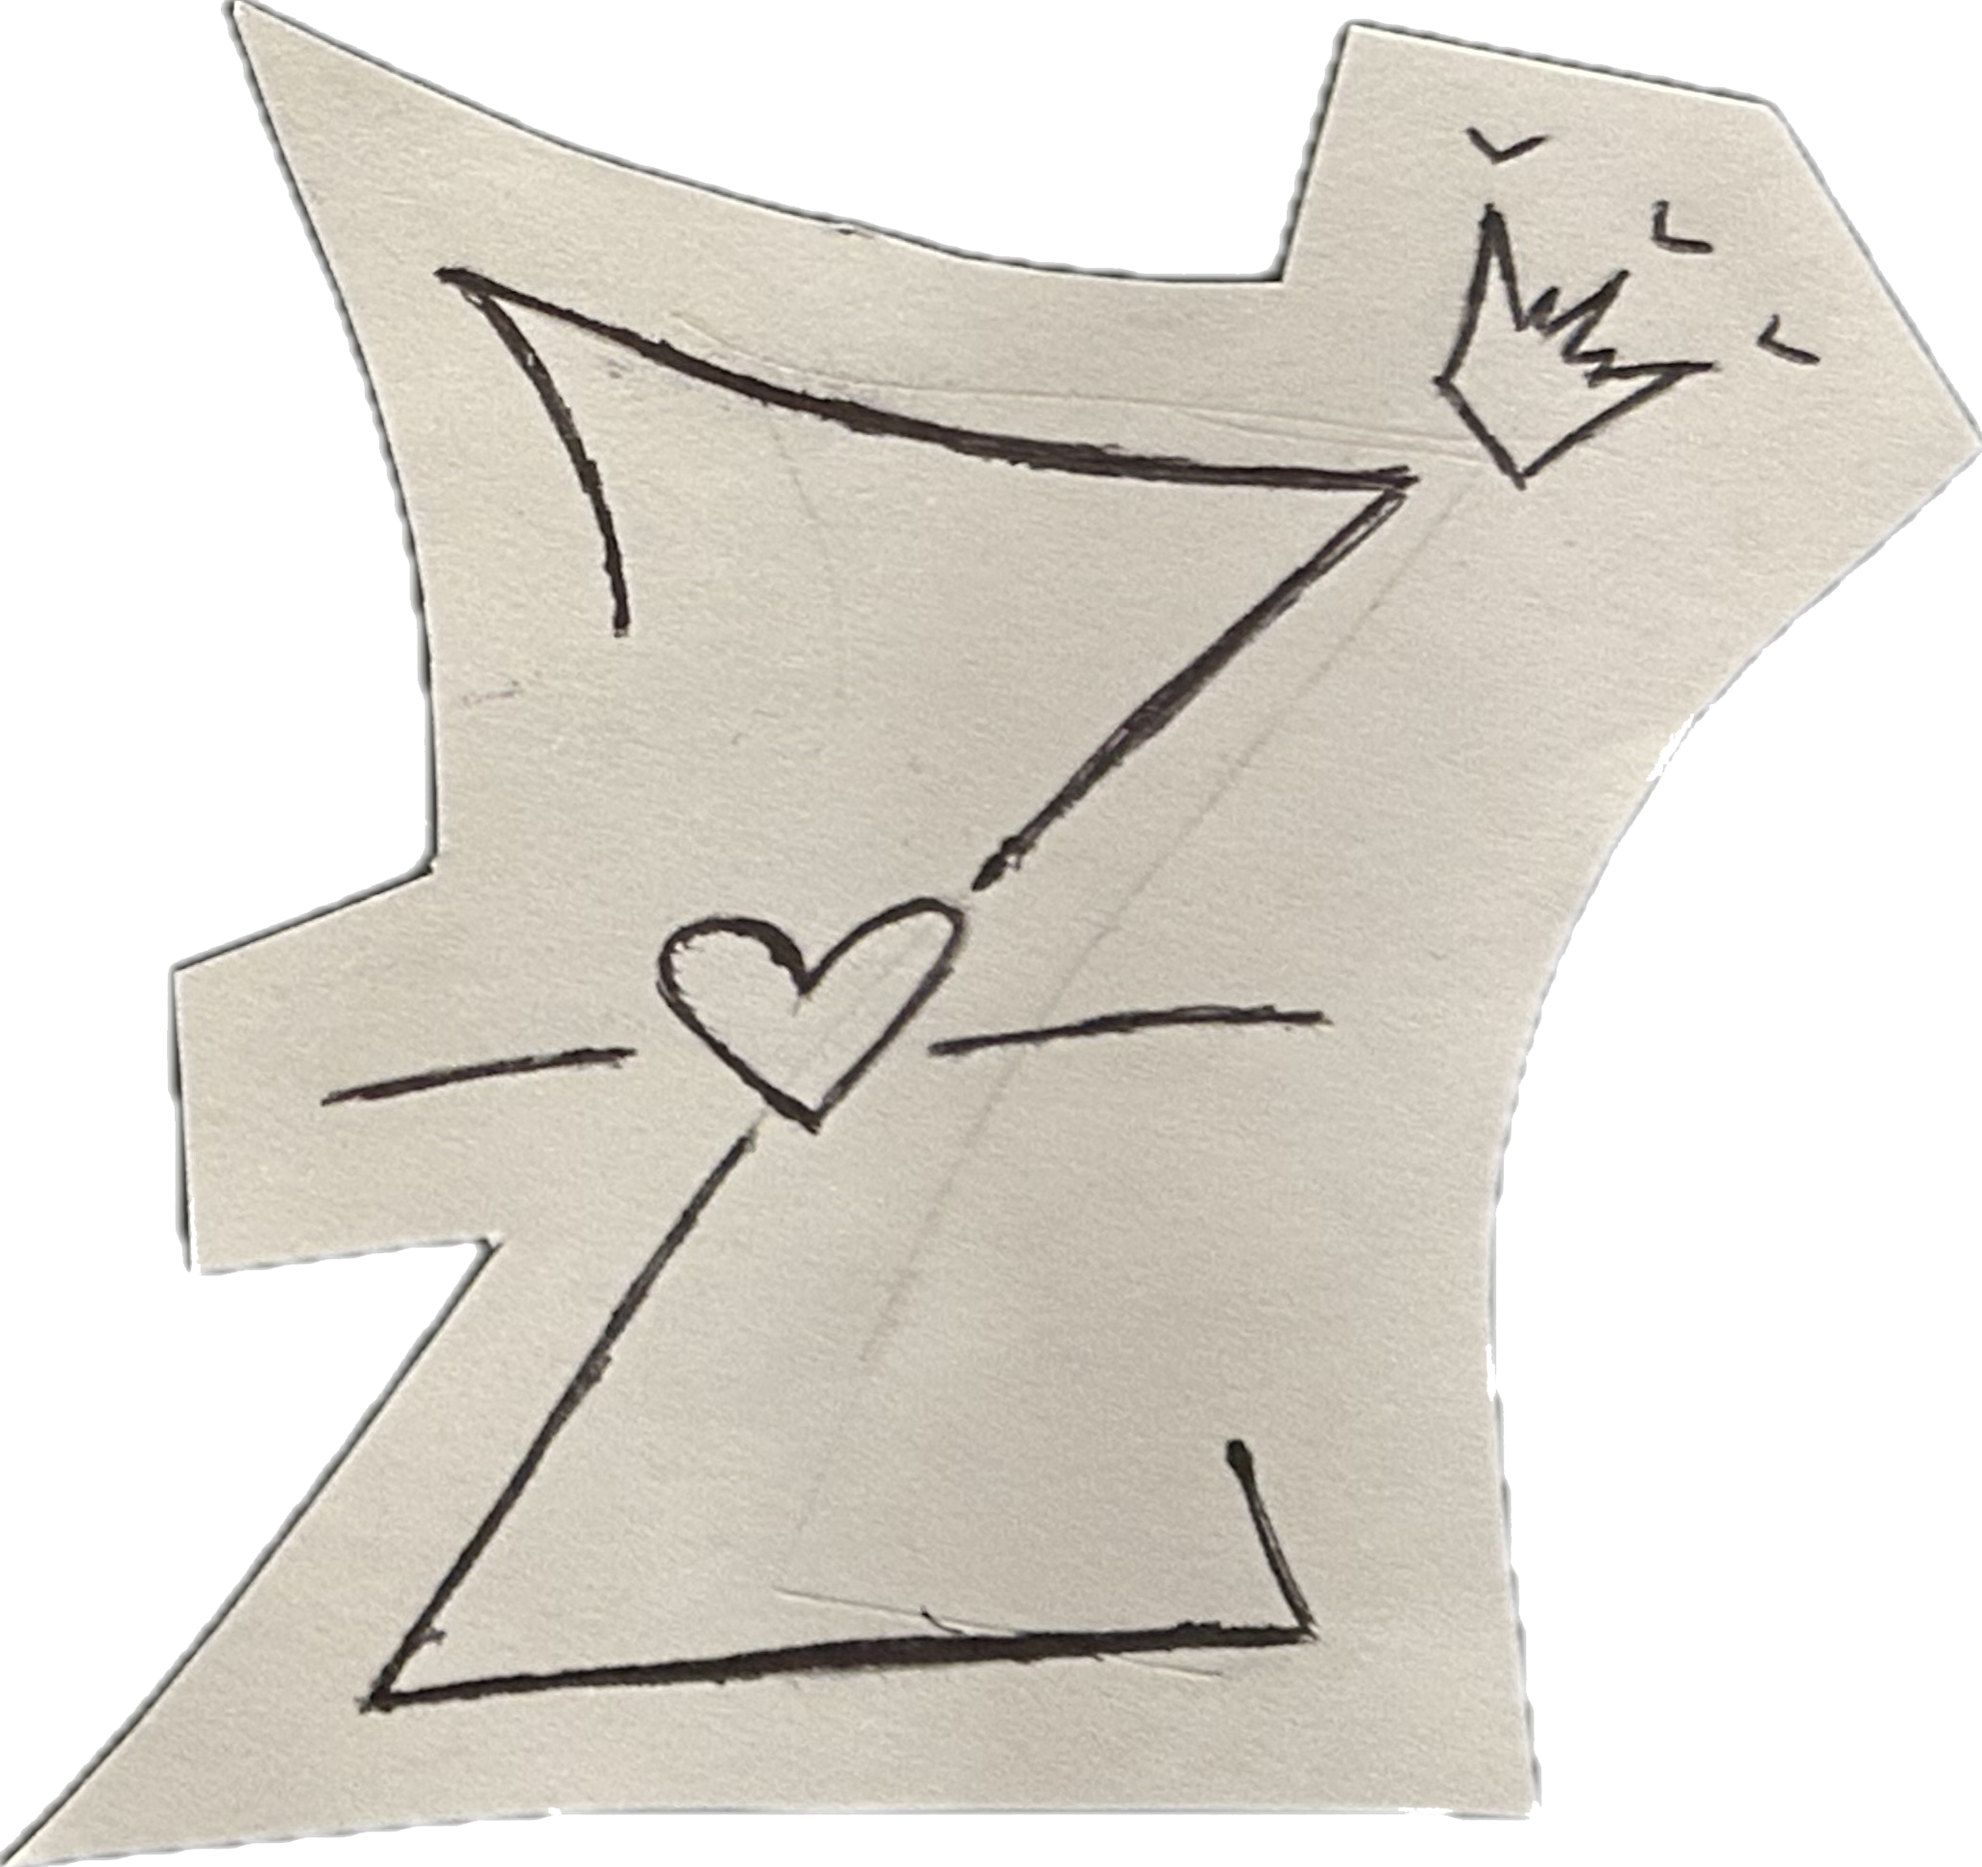
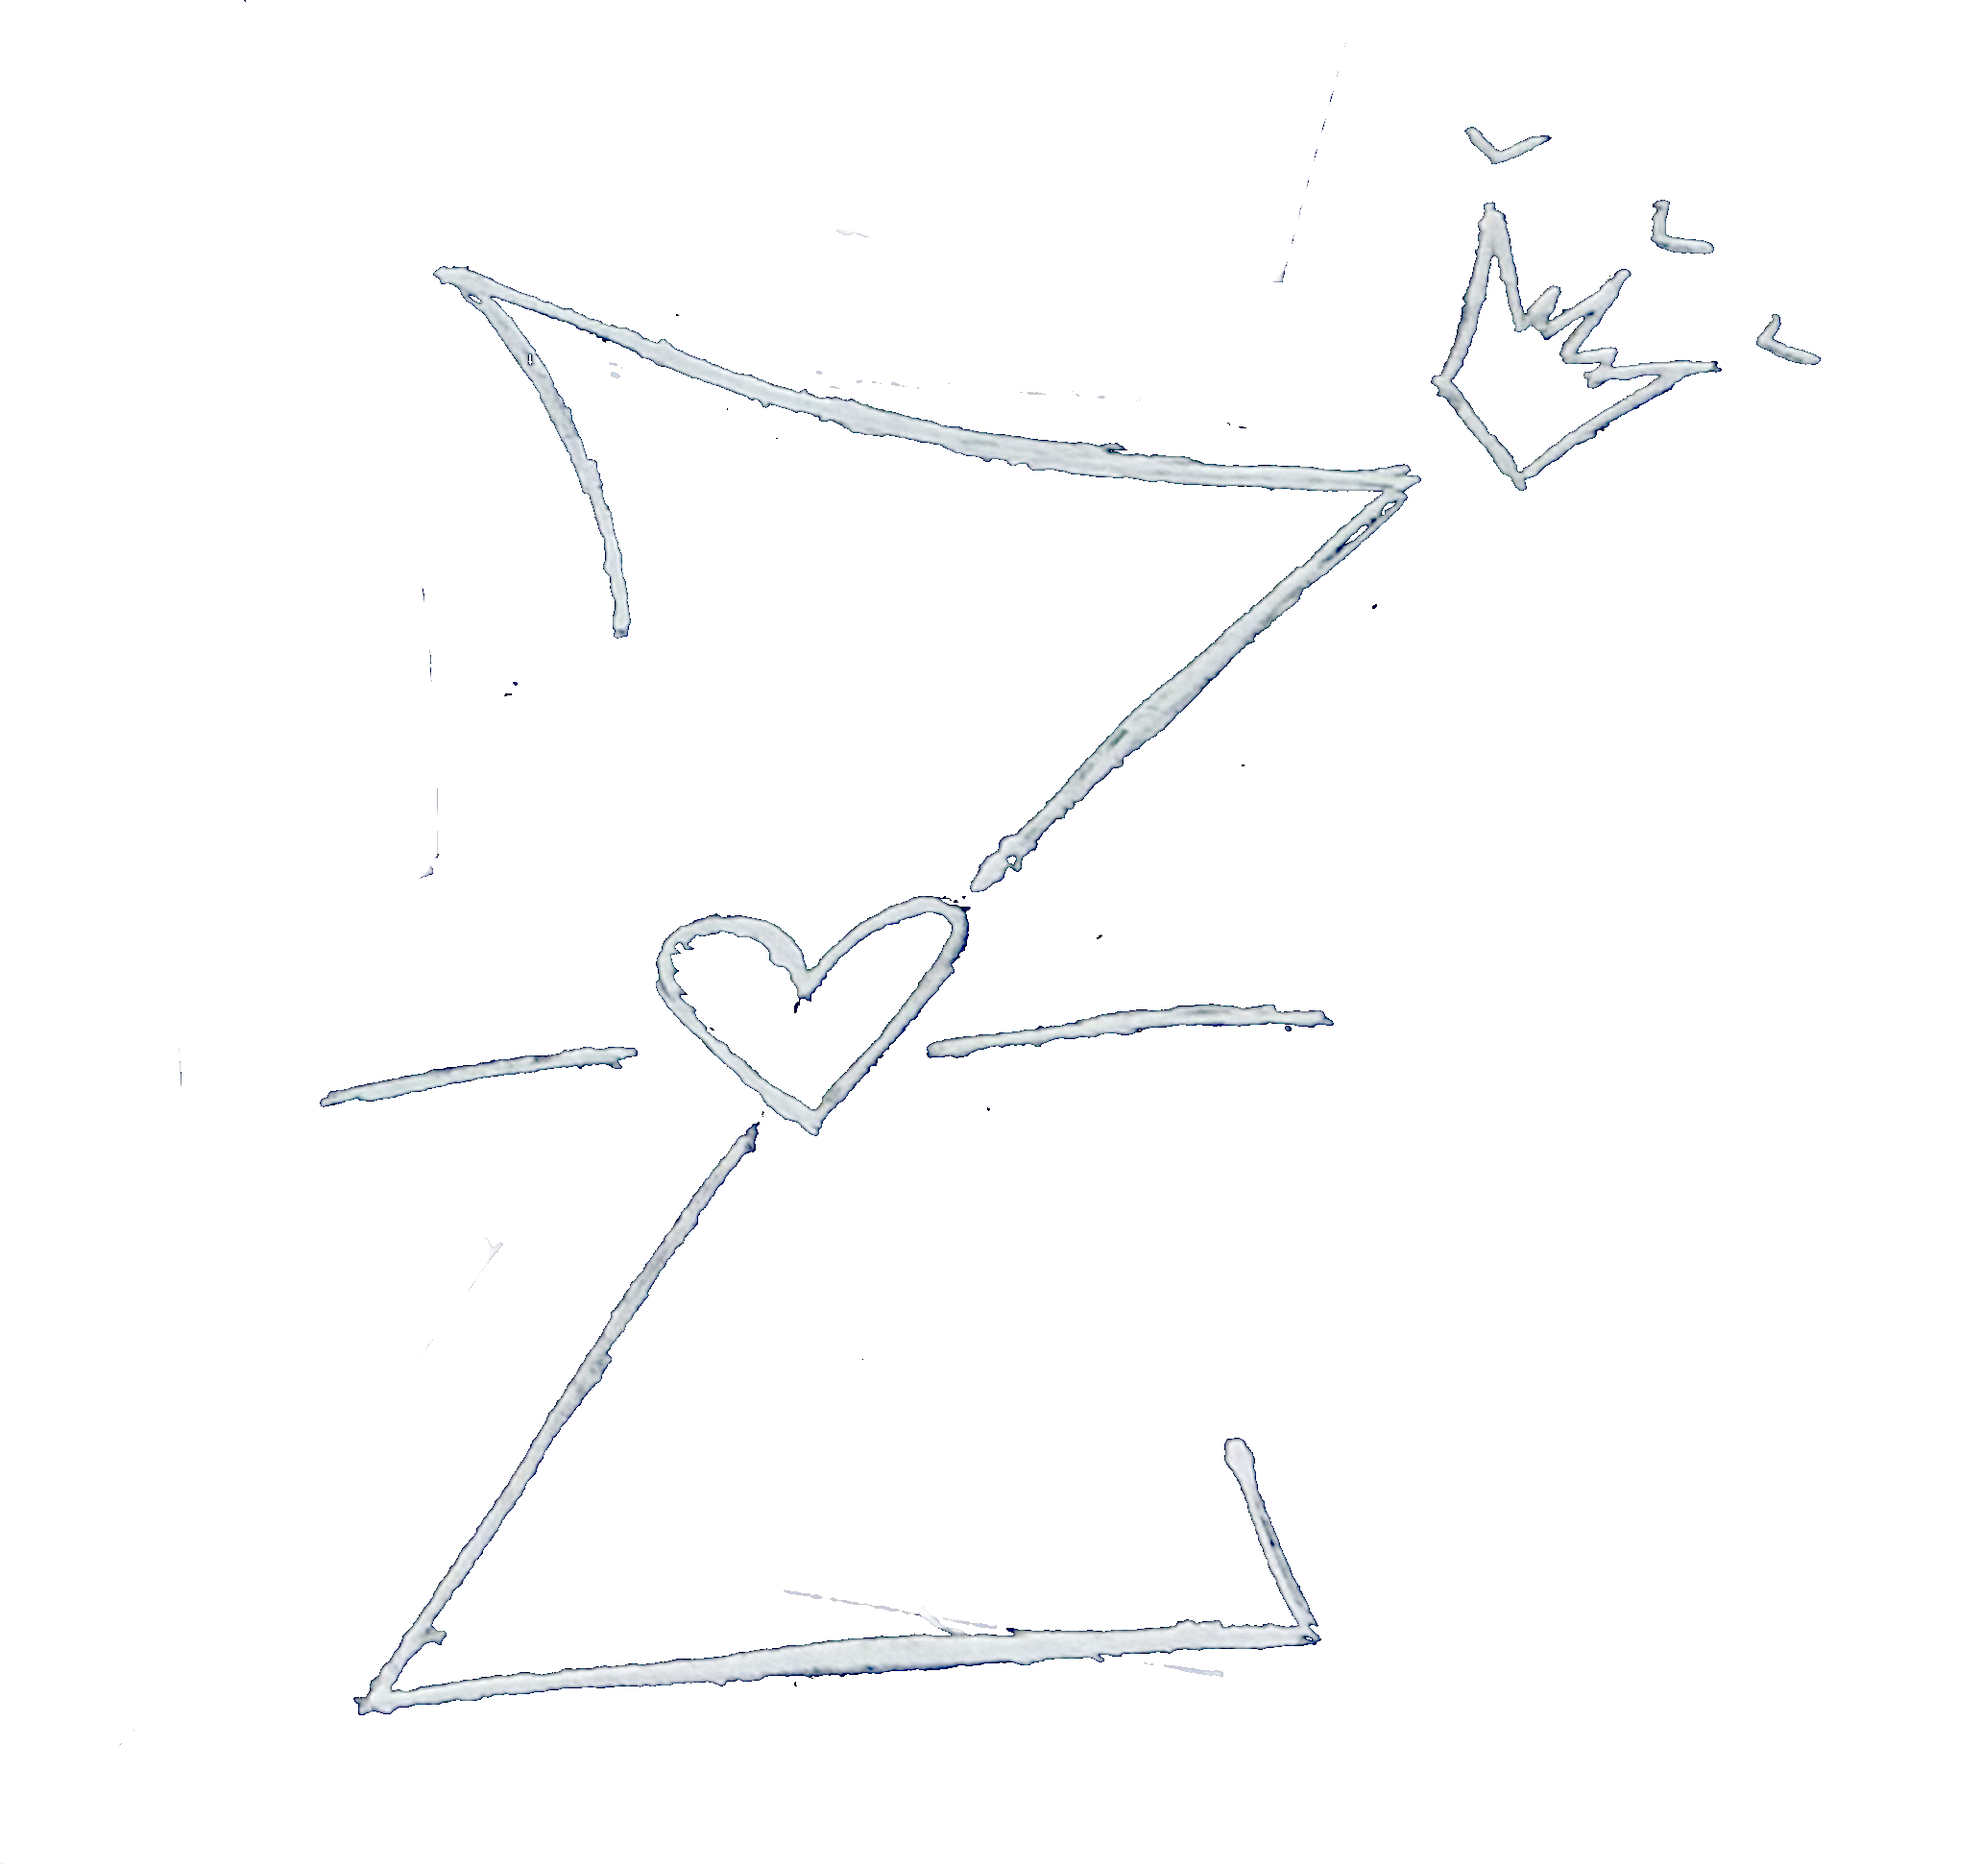
Add files via upload

diff --git a/journalpage.html b/journalpage.html
@@ -14,7 +14,7 @@
         <br><br>
         <b>05/06/2025</b> The thing I expected to do but didn't want to do ended up happening. As you may notice I've been away from the site for a while,
          and the only reason is because I basically lost interest and forgot about it for that entire time. I'd like to change that and utilize this site for all of its original purposes.
-         Creativity and writing in general are things I've wanted to get back into for a long time now but have been stricken with an indescribable mental block. Effort is a weird concept when you're depressed 
+         Creativity and writing in general are things I've wanted to get back into for a long time now but have been stricken with an indescribable mental block. Effort is a weird concept when you're depressed. 
          I have the time, and because I'm awake that means I must have the energy, but so often I'm simply barred from what I want to do with myself. I'm not, though, of course. Not really.
          I've come to understand that for all practical applications, there is no such thing as "motivation," so why don't I just sit down and write something? Well, here we are. I want to change that,
          and by my expression of wanting to do so in this etheric space that is the internet, perhaps I am. Anyway, there are plenty of updates with the happenings of my life. Z and I are moving in together

diff --git a/photography.html b/photography.html
@@ -2,8 +2,9 @@
 <html>
 
     <head>
-        <meta name="viewport" content="width=device-width, initial scale=0.5">
+        <meta name="viewport" content="width=device-width, initial scale=1.0">
         <style>
+            h1{margin:auto}
             @media (min-width:500px) {
             div{border:3px solid goldenrod;text-align:center;margin-left:auto;margin-right:auto;width:700px}}
           
@@ -11,9 +12,10 @@
             div{border:3px solid goldenrod;text-align:center;margin:20px;margin-left:10px;margin-right:10px;width:700px}}
             table{margin:auto}
             .pagehead{border:none}
+            
         </style>
     </head>
-    <div class="pagehead">
+     <!-- <div id="nav" class="pagehead"> -->
         <title>fistography</title>
         <h1>Photography
             <br>
@@ -29,7 +31,7 @@
        </div>
     <br><br>
 
-    <div>
+<div>
 <a href="https://open.spotify.com/track/5oLGFMrLifjiDbeNgOq8qf?si=8170b67928854dd0"> 
     <img src="photography/rinscarf.png" height="500">
 </a>
@@ -53,4 +55,5 @@
 <body> 
 </body>
 <link rel="stylesheet" href="style.css">
+<link rel="icon" type="image/x-icon" href="favicon.png">
 </html>

diff --git a/art.html b/art.html
@@ -16,7 +16,17 @@
        </h1>
        <br>
        <body> 
+        <div>
+            <a href="https://open.spotify.com/track/3RoUrTSYAKSXdQAFJtKRKw?si=547c5747015e4f01"> 
+                <img src="art/scrawling1.png" height="500">
+            </a>
+            <a href="https://open.spotify.com/track/4aZtZebrC3mm1tx6D2ljKg?si=8bccbaec8aa94c42">
+            <img src="art/scrawling2.png" height="500">
+            </a>
+            <p>scribbles and scrawlings</p>
+            </div>
+            
        </body>
        <link rel="stylesheet" href="style.css">
-       
+       <link rel="icon" type="image/x-icon" href="favicon.png">
 </html>

diff --git a/index.html b/index.html
@@ -37,7 +37,10 @@
     <td id="linkcell"><a href="https://instagram.com/odddballs"><img src="pccn.PNG" style="height:60px"></a></td>
 </tr>
 <tr>
-    <td id="linkcell"><a href="https://tumblr.com/whoszeldaa"><img src="zee.png" style="height:60px;margin-bottom:-10px"></a></td>
+    <td id="linkcell"><a href="https://tumblr.com/whoszeldaa"><img src="zee.PNG" style="height:60px;margin-bottom:-10px"></a></td>
+</tr>
+<tr>
+    <td id="linkcell"><a href="https://noghead.carrd.co"><img src="littuh dood.png" style="height:60px;margin-bottom:-10px"></a></td>
 </tr>
     </table>
 <!-- </h2> -->

diff --git a/journal.html b/journal.html
@@ -11,11 +11,9 @@
            <td><a href="index.html">home</a>
        </table>
        </h1>
-    <body>
-        Journal entries will be posted here in chronological order. oldest first.
-    </body>
-    <br>
-    <br>
+    <p style="font-size: 25px">
+        <b>Journal entries will be posted here in chronological order. Oldest first.</b>
+    </p>
     <br>
     <body>
     </body>
@@ -25,4 +23,5 @@
     <body> 
     </body>
     <link rel="stylesheet" href="style.css">
+    <link rel="icon" type="image/x-icon" href="favicon.png">
 </html>

diff --git a/testindex.html b/testindex.html
@@ -1,0 +1,27 @@
+<html>
+<head>
+<title>Fort Fisticuffs</title>
+</head>
+
+<h1>Welcome to Fort Fisticuffs</h1>
+<body>
+here we do all sorts of things
+</body>
+<p>such as:
+<ul>
+<li>chilling</li>
+<li>relaxing</li>
+<li>having fun</li>
+</ul>
+<p>
+<h2>but most importantly</h2>
+<h2>avoiding herpes by staying loyal to our girlfriends</h2>
+<img src="than.png">
+<p>
+<a href="https://www.youtube.com/@femboy.fisticuffs">FFYT</a>
+</p>
+<p>
+<a href="page2.html">page 2</a>
+</p>
+<link rel="stylesheet" href="style.css">
+</html>

diff --git a/tumblr.html b/tumblr.html
@@ -1,0 +1,6 @@
+<!DOCTYPE html>
+<html>
+    <body>
+        <iframe src="https://www.whoszeldaa.tumblr.com" height="400" width="400" title="tumbr"
+    </body>
+</html>
